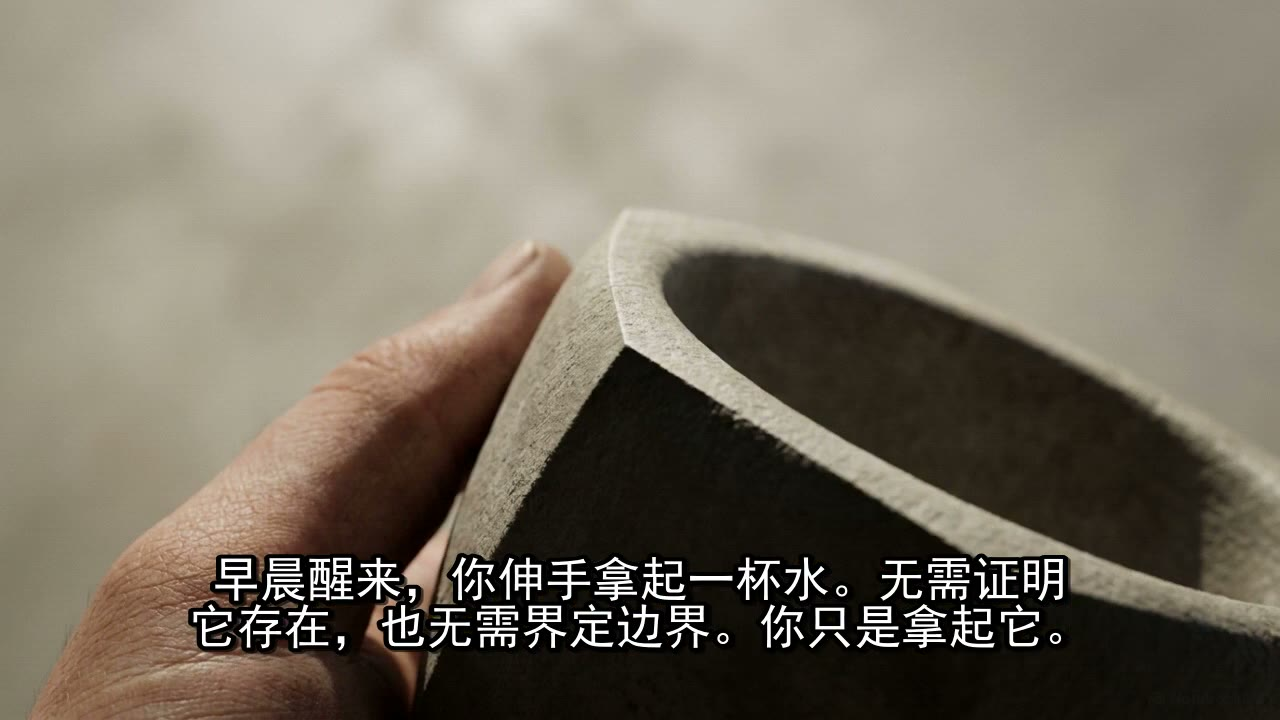
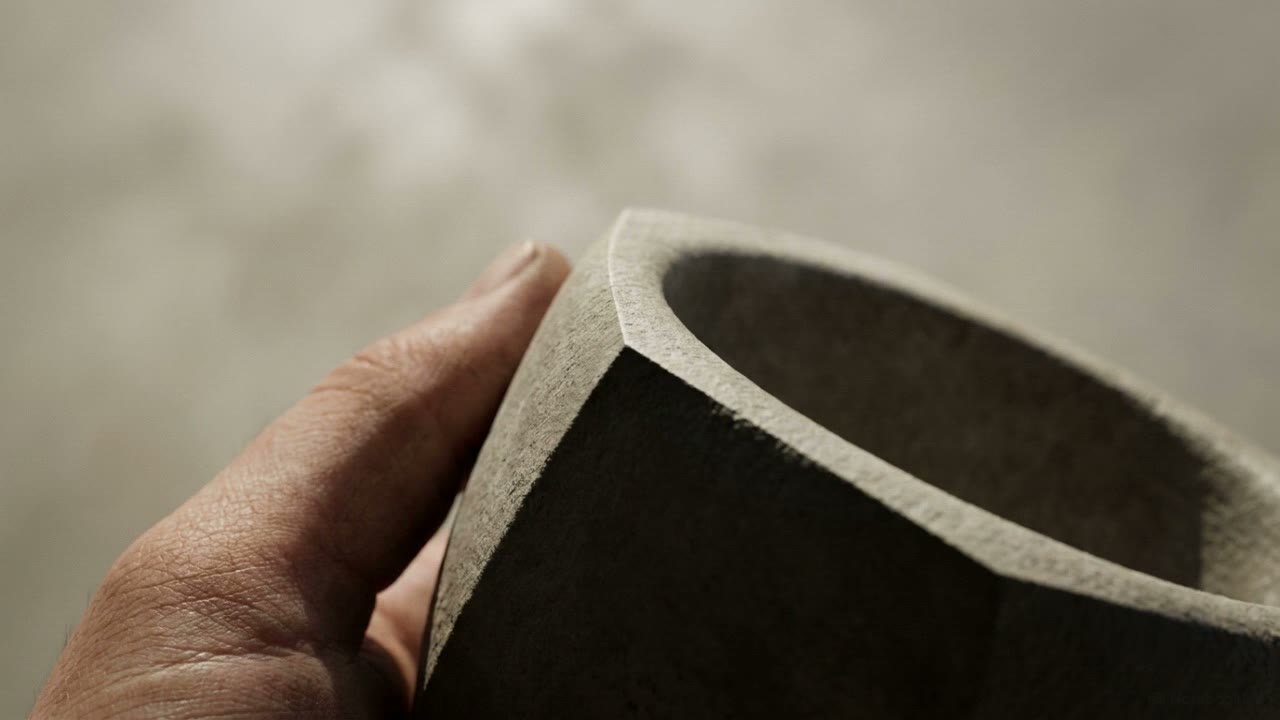
Polish Q00 subtitles and video presentation (#9)

Changed region(s): [[0.125, 0.7639, 0.8438, 0.9167]]

diff --git a/video.html b/video.html
@@ -7,7 +7,7 @@
 <title>视频 · 选择性现实理论</title>
 <link rel="stylesheet" href="assets/style.css?v=20260706a"/>
 <!-- meta:auto -->
-<meta name="description" content="《从存在到秩序》视频序章 Q00：从早晨的一杯水开始，追问在对象彼此相关之前，它们如何先成为‘它们’。中文字幕试制版。"/>
+<meta name="description" content="《从存在到秩序》视频序章 Q00：从一杯水、水平因果和沉积地形开始，追问在对象彼此相关之前，它们如何先成为‘它们’。含中文字幕试制版。"/>
 <link rel="canonical" href="https://zyx1st-png.github.io/srt-site/video.html"/>
 <link rel="icon" href="assets/favicon.svg" type="image/svg+xml"/>
 <link rel="apple-touch-icon" href="assets/apple-touch-icon.png"/>
@@ -15,7 +15,7 @@
 <meta property="og:type" content="website"/>
 <meta property="og:site_name" content="选择性现实理论 · Selective Reality Theory"/>
 <meta property="og:title" content="视频 · 选择性现实理论"/>
-<meta property="og:description" content="《从存在到秩序》视频序章 Q00：从早晨的一杯水开始，追问在对象彼此相关之前，它们如何先成为‘它们’。中文字幕试制版。"/>
+<meta property="og:description" content="《从存在到秩序》视频序章 Q00：从一杯水、水平因果和沉积地形开始，追问在对象彼此相关之前，它们如何先成为‘它们’。含中文字幕试制版。"/>
 <meta property="og:url" content="https://zyx1st-png.github.io/srt-site/video.html"/>
 <meta property="og:image" content="https://zyx1st-png.github.io/srt-site/assets/og-card.png"/>
 <meta property="og:image:width" content="1200"/>
@@ -51,10 +51,12 @@
 <p>从早晨伸手拿起一杯水开始，追问那个常被跳过的第零问：<b>在对象彼此相关之前，它们如何先成为“它们”？</b></p>
 <div class="cadence"><span class="pulse"></span>Q00 已上线 · 中文字幕试制版</div>
 </div></header>
-<div class="vhero"><video controls preload="metadata" playsinline poster="assets/media/q00-prologue-poster.jpg" aria-label="播放《从存在到秩序》Q00 序章中文字幕试制版"><source src="assets/media/q00-prologue-zh.mp4" type="video/mp4">你的浏览器暂不支持网页视频，请<a href="assets/media/q00-prologue-zh.mp4">直接打开视频</a>。</video><div class="vcap">Q00 · 序章 · 中文字幕试制版 · 4:09</div></div>
+<div class="vhero"><video id="q00-player" controls preload="metadata" playsinline poster="assets/media/q00-prologue-poster.jpg" aria-label="播放《从存在到秩序》Q00 序章中文字幕试制版"><source src="assets/media/q00-prologue-zh.mp4" type="video/mp4"><track kind="subtitles" srclang="zh" label="中文字幕" src="assets/media/q00-prologue-zh.vtt" default>你的浏览器暂不支持网页视频，请<a href="assets/media/q00-prologue-zh.mp4">直接打开视频</a>。</video><div class="vcap">Q00 · 序章 · 中文字幕试制版 · 4:09 · 90 条时间轴字幕</div></div>
 <main id="main">
+<div class="clist video-list"><article class="item is-current"><a class="poster" href="#q00-player" aria-label="跳转到 Q00 播放器"><img src="assets/media/q00-prologue-poster.jpg" alt="Q00 序章视频封面"></a><div><span class="ep">Q00 · 序章</span><h3>在对象相关之前，它们如何成为“它们”？</h3><p>从早晨拿起一杯水开始，经过稳定、水平因果、选择与沉积，回到 SRT 的第零问。</p></div><div class="meta"><span class="dur">4:09</span><span class="chip ok">已上线</span><a class="watch" href="#q00-player">播放样片 →</a></div></article></div>
 <div class="list-note video-page-note"><div class="callout">
-<b>样片说明</b>：这是 NotebookLM 视频概览的中文字幕试制版，用于检验网页播放、字幕字形与观看节奏。视频是面向公众的阐释，不是 SRT 的 canonical 定义源；正式系列发布前仍会继续做术语、断句、时间轴与 claim 边界精修。
+<b>本集简介</b>：你以为自己只是拿起一杯水，但在动作发生之前，世界已经替你完成了对象边界、身份延续和现实筛选。Q00 先解释为什么“水平因果”擅长处理已经完成的对象，却会绕过对象如何形成的问题；再用陶杯、信任和算法说明，过去的选择如何沉积成今天的默认地形。
+<br><br><b>样片说明</b>：这是 NotebookLM 视频概览的中文字幕试制版，已重新切分时间轴并提供可选字幕轨道。视频是面向公众的阐释，不是 SRT 的 canonical 定义源；正式系列发布前仍会继续做术语、语义和 claim 边界精修。
 </div></div>
 </main>
 <div class="guardrails"><div class="wrap">

diff --git a/assets/style.css b/assets/style.css
@@ -237,9 +237,12 @@ details.endnote .en-body p{font-size:14.5px;line-height:2;color:var(--ink-soft);
 .vhero video{width:100%;border-radius:18px;border:1px solid var(--line);box-shadow:var(--shadow);background:#000;display:block}
 .vhero .vcap{font-size:13px;color:var(--ink-faint);text-align:center;margin-top:12px}
 .clist{max-width:860px;margin:0 auto;padding:44px 32px 20px;display:grid;gap:18px}
+.clist.video-list{padding-top:34px;padding-bottom:0}
 .item{display:grid;grid-template-columns:112px 1fr auto;gap:20px;align-items:center;background:var(--panel);border:1px solid var(--line);border-radius:18px;padding:20px 22px;box-shadow:var(--shadow)}
+.item.is-current{border-color:rgba(58,122,110,.45);background:linear-gradient(120deg,rgba(58,122,110,.08),var(--panel) 42%)}
 .item .poster{width:112px;height:72px;border-radius:12px;overflow:hidden;background:#1E2620;display:flex;align-items:center;justify-content:center}
 .item .poster svg{width:100%;height:100%;display:block}
+.item .poster img{width:100%;height:100%;object-fit:cover;display:block}
 .item .ep{font-family:var(--mono);font-size:11px;letter-spacing:.14em;color:var(--stay-deep);display:block;margin-bottom:4px}
 .item h3{margin:0 0 6px;font-size:19px}
 .item h3 small{font-weight:400;color:var(--ink-soft);font-size:14px;font-family:var(--serif);font-style:italic}

diff --git a/tools/apply_meta.py b/tools/apply_meta.py
@@ -47,7 +47,7 @@ DESC = {
     "book/q05.html": "公开样章 · 第五章：你以为自己是从菜单里选了一道菜。但菜单是谁印的？“挑选”只是选择的最后一帧。",
     "articles.html": "《活的选择》系列：用 SRT 看清楚，再用不带术语的语言说出来。从日常经验进入，逐篇发布；理论本身不出现在文章里。",
     "value-hiddenness.html": "《活的选择》第一篇：价值不是缺席的，是被遮蔽的——从日常经验进入，不带术语地看清价值在哪里被挡住。",
-    "video.html": "《从存在到秩序》视频序章 Q00：从早晨的一杯水开始，追问在对象彼此相关之前，它们如何先成为‘它们’。中文字幕试制版。",
+    "video.html": "《从存在到秩序》视频序章 Q00：从一杯水、水平因果和沉积地形开始，追问在对象彼此相关之前，它们如何先成为‘它们’。含中文字幕试制版。",
     "papers.html": "SRT 论文与外部收录进度：Frontiers 论文已接收，Costly Selective Closure 已转投 Adaptive Behavior，意识图景获 LOC 收录。",
     "research.html": "SRT 当前研究进展：Frontiers 论文已接收，Costly Selective Closure 在投 Adaptive Behavior，意识图景获 LOC 收录。",
     "evidence.html": "SRT 证据与材料地图：区分收敛、代理、约束和验证，公开展示八张候选研究卡及其边界。当前尚无已接受的证据卡。",